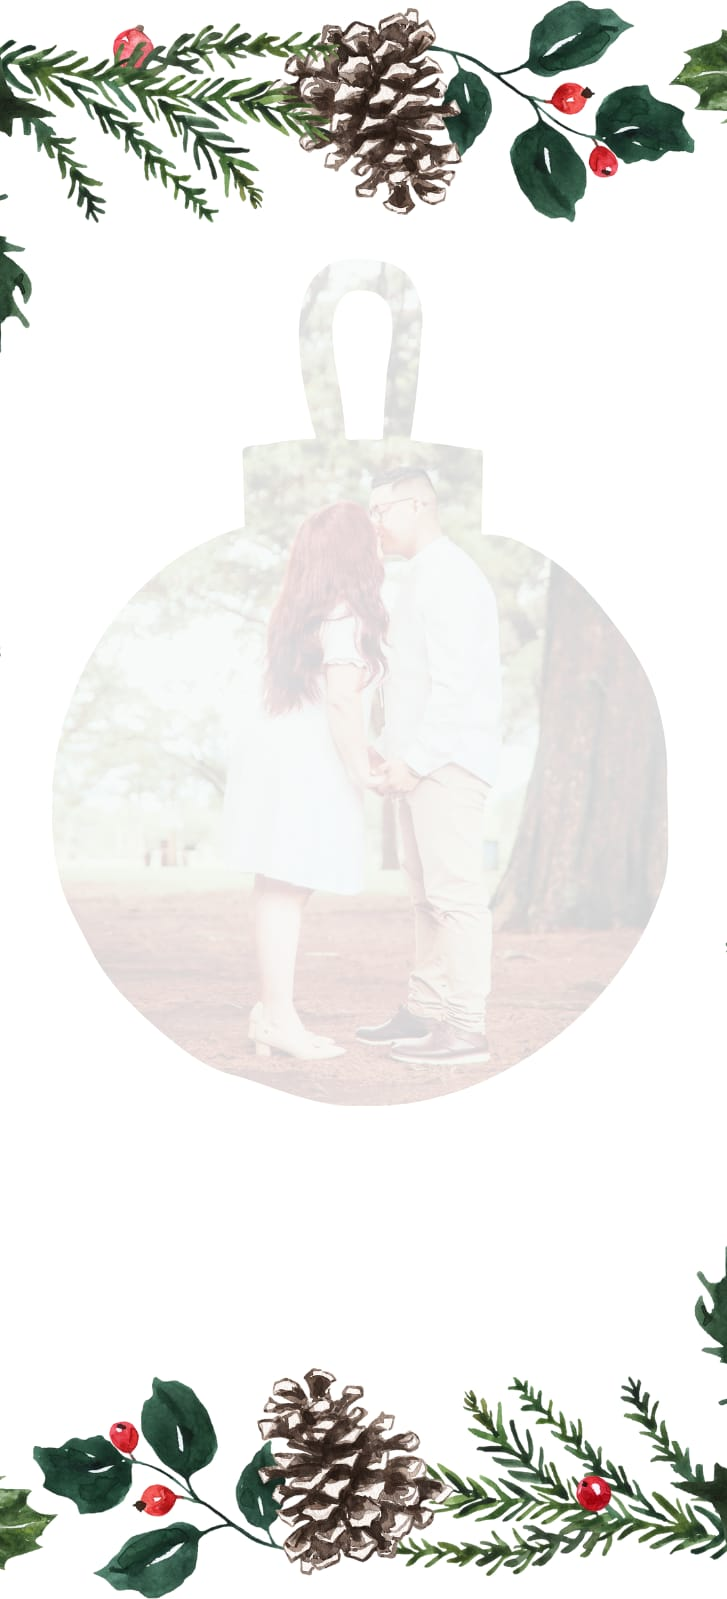
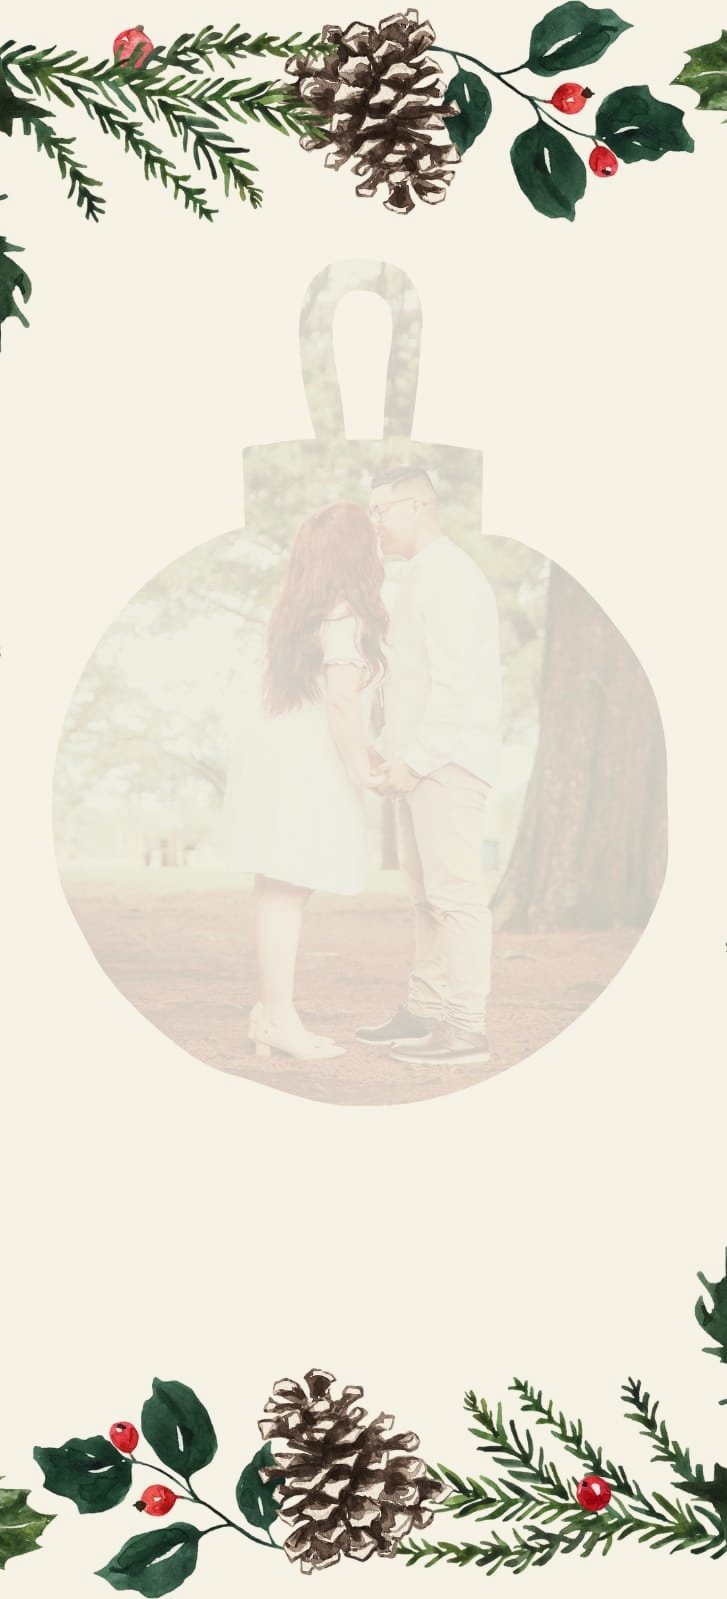
feat(studio68): add tour welcome box with quote typography and exact cream color match for countdown

diff --git a/backend/static/studio68/css/invitacion_boda.css b/backend/static/studio68/css/invitacion_boda.css
@@ -11,10 +11,14 @@
     --inv-gold-light: #f5eedf;
     --inv-dark: #221d19;
     --inv-charcoal: #3c342d;
-    --inv-bg-cream: #fbf8f3;
+    --inv-bg-cream: #F6F2E6;
     --inv-card-bg: rgba(255, 255, 255, 0.96);
     --inv-border-gold: rgba(197, 160, 89, 0.35);
     --inv-shadow: 0 14px 35px rgba(60, 52, 45, 0.07);
+}
+
+html {
+    scroll-behavior: smooth;
 }
 
 * {
@@ -25,8 +29,8 @@
 
 body {
     font-family: 'Montserrat', sans-serif;
-    background-color: #f2ede4;
-    background-image: radial-gradient(#dfd6c8 1px, transparent 1px);
+    background-color: #F6F2E6;
+    background-image: radial-gradient(#dcd2c0 1px, transparent 1px);
     background-size: 24px 24px;
     color: var(--inv-charcoal);
     line-height: 1.6;
@@ -71,20 +75,119 @@ body {
     min-height: 100vh;
 }
 
-/* Hero Nupcial (Imagen Original Limpia sin textos sobrepuestos) */
+/* Hero Nupcial (Imagen Original con Caja de Tour Integrada) */
 .inv-hero {
     width: 100%;
     position: relative;
     overflow: hidden;
     line-height: 0;
-    background: #000;
+    background: #F6F2E6;
 }
 
 .inv-hero-img {
     width: 100%;
     height: auto;
     display: block;
-    object-fit: cover;
+}
+
+/* Caja de Bienvenida al Tour (en el espacio inferior de portada) */
+.inv-hero-tour-box {
+    position: absolute;
+    bottom: 3.5%;
+    left: 50%;
+    transform: translateX(-50%);
+    width: 86%;
+    max-width: 410px;
+    text-align: center;
+    line-height: 1.4;
+    padding: 1.15rem 1.4rem;
+    background: rgba(254, 250, 244, 0.92);
+    backdrop-filter: blur(8px);
+    -webkit-backdrop-filter: blur(8px);
+    border: 1.5px solid rgba(198, 159, 86, 0.4);
+    border-radius: 22px;
+    box-shadow: 0 10px 30px rgba(60, 52, 45, 0.1);
+    z-index: 10;
+}
+
+.tour-badge {
+    background: rgba(198, 159, 86, 0.15);
+    color: #8c6a28;
+    font-size: 0.76rem;
+    font-weight: 700;
+    letter-spacing: 0.05em;
+    font-family: 'Montserrat', sans-serif;
+    display: inline-flex;
+    align-items: center;
+    gap: 6px;
+    padding: 5px 14px;
+    border-radius: 50px;
+}
+
+.tour-title {
+    font-family: 'Montserrat', sans-serif;
+    font-size: 1.35rem;
+    font-weight: 800;
+    color: #1a1a1a;
+    margin-top: 0.6rem;
+    margin-bottom: 0.45rem;
+    letter-spacing: -0.015em;
+    line-height: 1.25;
+}
+
+.tour-desc {
+    font-family: 'Montserrat', sans-serif;
+    font-size: 0.88rem;
+    font-weight: 400;
+    color: #555555;
+    line-height: 1.6;
+    margin-bottom: 1.1rem;
+}
+
+.btn-tour-cta {
+    display: inline-flex;
+    align-items: center;
+    justify-content: center;
+    background: linear-gradient(135deg, var(--inv-gold), var(--inv-gold-dark));
+    color: #ffffff !important;
+    text-decoration: none !important;
+    font-family: 'Montserrat', sans-serif;
+    font-size: 0.84rem;
+    font-weight: 700;
+    padding: 0.65rem 1.4rem;
+    border-radius: 50px;
+    box-shadow: 0 6px 18px rgba(197, 160, 89, 0.35);
+    transition: all 0.25s ease;
+}
+
+.btn-tour-cta:hover {
+    transform: translateY(-2px);
+    box-shadow: 0 10px 24px rgba(197, 160, 89, 0.5);
+    color: #ffffff !important;
+}
+
+@media (max-width: 480px) {
+    .inv-hero-tour-box {
+        bottom: 2.8%;
+        padding: 0.95rem 1.1rem;
+    }
+    .tour-title {
+        font-size: 1.12rem;
+    }
+    .tour-desc {
+        font-size: 0.78rem;
+        margin-bottom: 0.75rem;
+    }
+    .btn-tour-cta {
+        font-size: 0.82rem;
+        padding: 0.65rem 1.3rem;
+        width: 100%;
+    }
+}
+
+/* Serif font utility */
+.serif {
+    font-family: 'Playfair Display', serif;
 }
 
 /* Reproductor de Audio Flotante 2026 */

diff --git a/backend/templates/web/studio68_demo_boda.html b/backend/templates/web/studio68_demo_boda.html
@@ -54,9 +54,23 @@
     <!-- Contenedor Central de Invitación (Estilo Editorial Stationery) -->
     <main class="invitation-wrapper">
 
-        <!-- 1. Hero Nupcial (Imagen Original Limpia sin repetición de textos) -->
+        <!-- 1. Hero Nupcial (Imagen Original con Tour Interactivo) -->
         <section class="inv-hero">
             <img src="{% static 'studio68/img/portada.jpg' %}" alt="{{ pareja }}" class="inv-hero-img">
+            
+            <!-- Caja de Bienvenida al Tour (en el espacio inferior de portada) -->
+            <div class="inv-hero-tour-box">
+                <div class="tour-badge">
+                    <i class="bi bi-stars text-warning"></i> STUDIO 68 · EXPERIENCIAS DIGITALES
+                </div>
+                <h3 class="tour-title">¡Bienvenido a este Tour!</h3>
+                <p class="tour-desc">
+                    Explora las posibilidades de cómo armamos una invitación personalizada. ¡Compártenos tu idea!
+                </p>
+                <a href="#seccionCotizar" class="btn-tour-cta">
+                    <i class="bi bi-arrow-down-circle-fill me-2"></i> Cotizar mi Invitación
+                </a>
+            </div>
         </section>
 
         <!-- 2. Cuenta Regresiva Circular (Encuadrada en la bolita navideña) -->
@@ -323,7 +337,7 @@
                 <div class="inv-divider-gold my-4"></div>
 
                 <!-- Tarjeta Amplia y Destacada de Cotización Studio 68 -->
-                <div class="studio68-cta-card p-4 p-md-5 mx-auto">
+                <div id="seccionCotizar" class="studio68-cta-card p-4 p-md-5 mx-auto">
                     <div class="d-inline-flex align-items-center gap-2 mb-3 px-3 py-1 rounded-pill" style="background: rgba(198, 159, 86, 0.15); color: #8c6a28; font-size: 0.85rem; font-weight: 700; letter-spacing: 0.05em;">
                         <i class="bi bi-stars"></i> STUDIO 68 · EXPERIENCIAS DIGITALES
                     </div>
